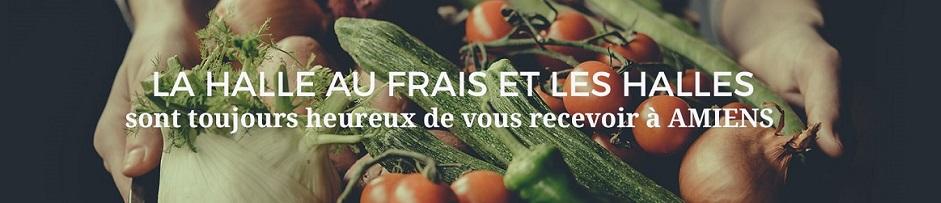
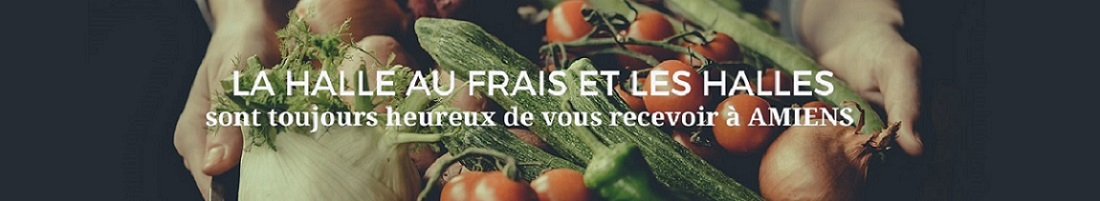
réajustement banniere actu + rubrique actu

diff --git a/css/stylenews.css b/css/stylenews.css
@@ -18,17 +18,14 @@ h1 {
 
 .banniere_actualite{
 	margin: auto;
+	display: inline-block;
 }
 
 .actualite{
-	border-width: 2px;
-	border-color: #333;
-	border-style: dashed;
-	border-width: 1px;
-	width: 360px;
-	height: 400px;
-	margin-bottom: 25px;
-	display: inline-block;
+	width: 355px;
+	height: 408px;
+	margin: auto;
+	display: block;
 }
 
 h2{
@@ -39,6 +36,11 @@ h2{
 	background-color: #ffffff;
 }
 
-.pied.page{
-	background-color: #ffffff;
+.piedpage{
+	color: black;
+	font-style: italic;
+}
+
+.bouton{
+	text-align: center;
 }

diff --git a/views/news.php b/views/news.php
@@ -16,22 +16,25 @@
 					<div class="titre article">
 						<header>
 							<h2><?= $article->titre;?></h2>
-							<img src=<?= $article->image?> alt=<?=$article->desc_image?> style="width:304px;height:228px;">
+							<img src=<?= $article->image?> alt=<?=$article->desc_image?> style="width:355px;height:228px;">
 						</header>
 					</div>
 					<p><?= $article->description;?></p>
-					<div class="pied page">
 						<footer>
-							<p>Par <?= $article->auteur;?> le <?= $article->date;?></p>
-							<form method="post" action="http://localhost/Halle-au-Frais/actualite">
-								<p><input type="submit" value="Lire la suite">
-   									<input type="hidden" name="id" value=<?= $article->id ?>></input>
-								</p>
-							</form>
+							<div class="piedpage">
+								<p>Par <?= $article->auteur;?> le <?= $article->date;?></p>
+								<form method="post" action="http://localhost/Halle-au-Frais/actualite">
+									<p><div class="bouton">
+										<input type="submit" value="Lire la suite">
+   										<input type="hidden" name="id" value=<?= $article->id ?>></input>
+									</div></p>
+								</form>
+							</div>
 						</footer>
-					</div>
 				</article>
 			</div>
 		<?php endforeach; ?>
+	</div>
+</div>
 
 
